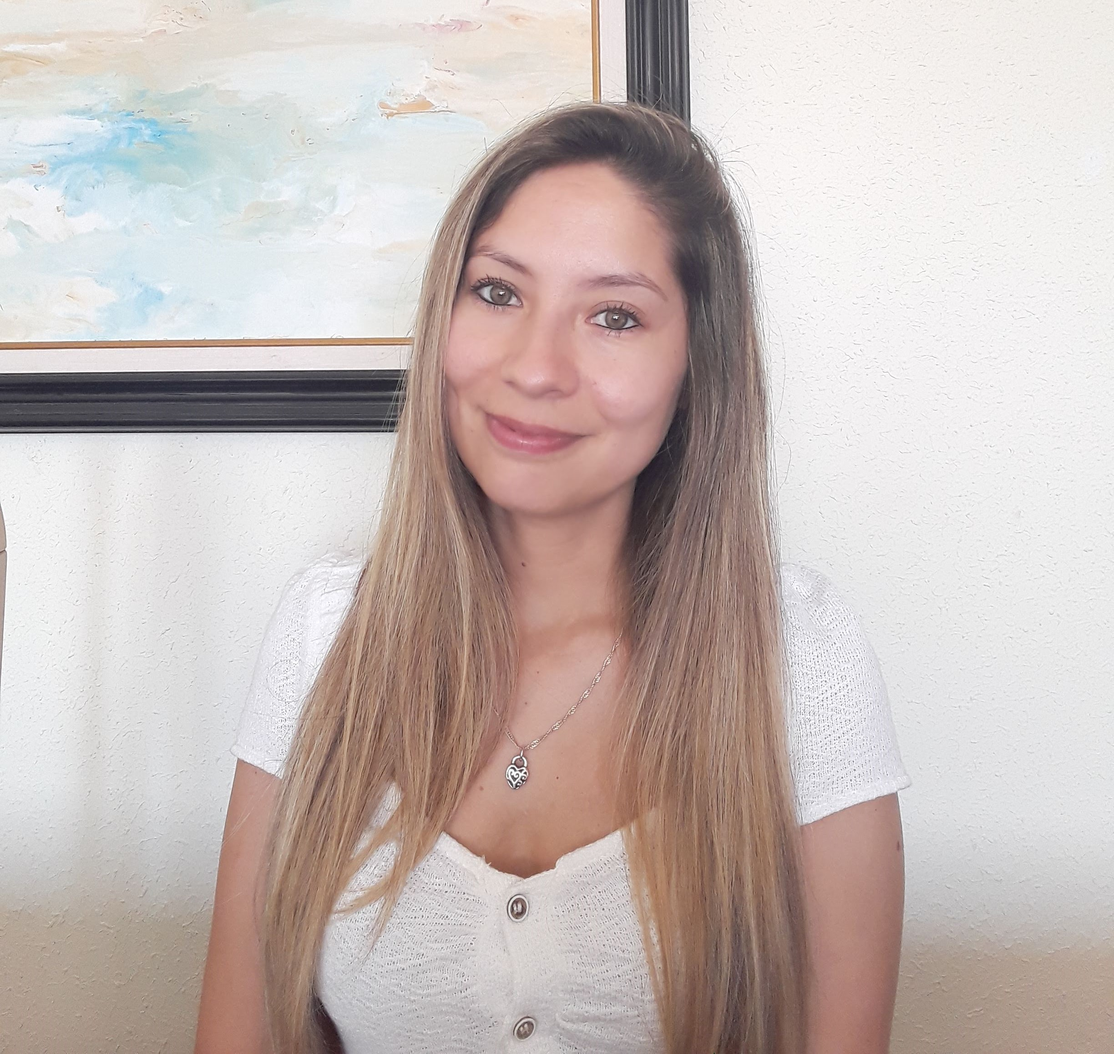
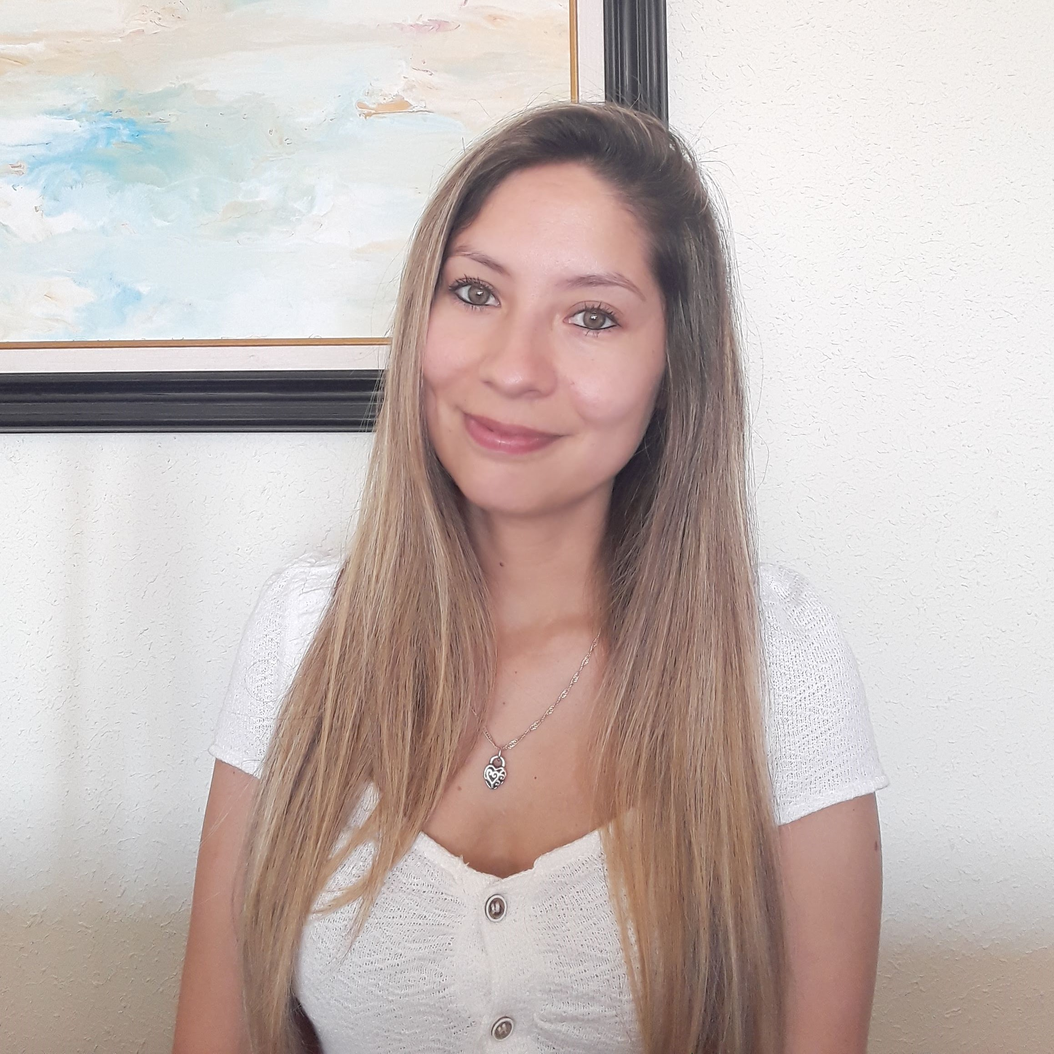
cambio estilo foto de perfil y agrego hovers

diff --git a/style.css b/style.css
@@ -35,6 +35,13 @@ header nav ul li a{
     color: white;
 }
 
+header nav a:hover, footer a:hover{
+    font-size: 18px;
+    background-color:rgb(122, 64, 105);
+    padding: 10px 20px;
+    border-radius: 50px;
+}
+
 header nav ul li .contacto{
     background-color:rgb(122, 64, 105);
     padding: 10px 20px;
@@ -87,17 +94,17 @@ button, .enviar{
    color: white;
 }
 
-
-
-
-.perfil{
-     width: 300px;
-    height: 300px; 
-   
+button:hover, .enviar:hover{
+    background-color: rgb(81, 50, 82);
 }
 
+
 .mifoto{
- width: 100%;
+    width: 300px;
+    height: 300px;
+    border-radius: 50%;
+    border: 2px solid rgb(122, 64, 105);
+    box-shadow: 8px 10px 14px 0px rgba(0,0,0,0.45);
 
 
 }
@@ -149,7 +156,7 @@ justify-content: center;
 
 .skill{
 
-    border: 1px solid lightgray;
+    border: 1px solid  rgb(122, 64, 105);
     border-radius: 5px;
     width: 200px;
     height: 200px;
@@ -179,7 +186,7 @@ color: rgb(255, 72, 0);
     color: pink;
  }
  .fa-js{
-    color: yellow;
+    color: rgb(247, 227, 6);
  }
  .fa-react{
     color: aqua;
@@ -236,7 +243,7 @@ color: rgb(255, 72, 0);
 
 
 .box-project{
-    border: 1px solid lightgray;
+    border: 1px solid  rgb(122, 64, 105);
     border-radius: 5px;
     margin: 15px;
     padding: 15px;
@@ -281,6 +288,12 @@ width: 40%;
 margin-right: 100px;
 }
 
+.contactame i{
+    color: rgb(202, 78, 121);
+    font-size: 20px;
+   
+}
+
 .contactame p{
     margin: 15px 0;
     font-size: 18px;
@@ -299,6 +312,10 @@ margin-right: 100px;
     text-decoration: none;
     color: black;
 
+}
+
+.link-contacto a:hover{
+    color:  rgb(202, 78, 121);
 }
 
 .escribime{
@@ -352,11 +369,12 @@ footer{
 footer nav ul, footer ul, .copy{
     display: flex;
     justify-content: center;
+    color: pink;
 
 }
 
 .cont-contacto li a{
-    margin:15px 10px;
+    margin:30px 10px;
     text-decoration: none;
     color: white;
     width: 50px;
@@ -381,6 +399,10 @@ li{
     list-style: none;
 }
 
+.cont-contacto a:hover{
+    background-color: rgb(242, 15, 102);
+}
+
 /* Diseño Responsive*/
 
 /*Tablets*/
@@ -402,8 +424,8 @@ li{
         margin: 20px auto;
     }
 
-    .perfil{
-        margin-top: 20px;
+    .mifoto{
+        margin: 20px 0;
     }
 
     .container-contac{
@@ -439,8 +461,13 @@ li{
 @media (max-width:480px){
 
     .perfil{
+        display: flex;
+        justify-content: center;
+    }
+
+    .mifoto{
         width: 60%;
-        height: 60%;
+        height: 60%; 
     }
 
     h1{

diff --git a/index.html b/index.html
@@ -150,7 +150,7 @@
             <li class="link-contacto" ><a href="" ><i class="fa-brands fa-twitter"></i> @SilvanaLima</a></li>
             <li class="link-contacto"><a href=""><i class="fa-brands fa-github-alt"></i> Silvana-Lima</a></li>
             <li class="link-contacto"><a href=""><i class="fa-brands fa-linkedin-in"></i> Silvana Lima</a></li>
-            <li class="link-contacto"><a href=""><i class="fa-solid fa-envelope"></i> silvanalima.89@gmail.com</a></li>
+            <li class="link-contacto"><a href=""><i class="fa-solid fa-envelope"></i> silvanalima.89@hotmail.com</a></li>
           </ul> 
           
           
